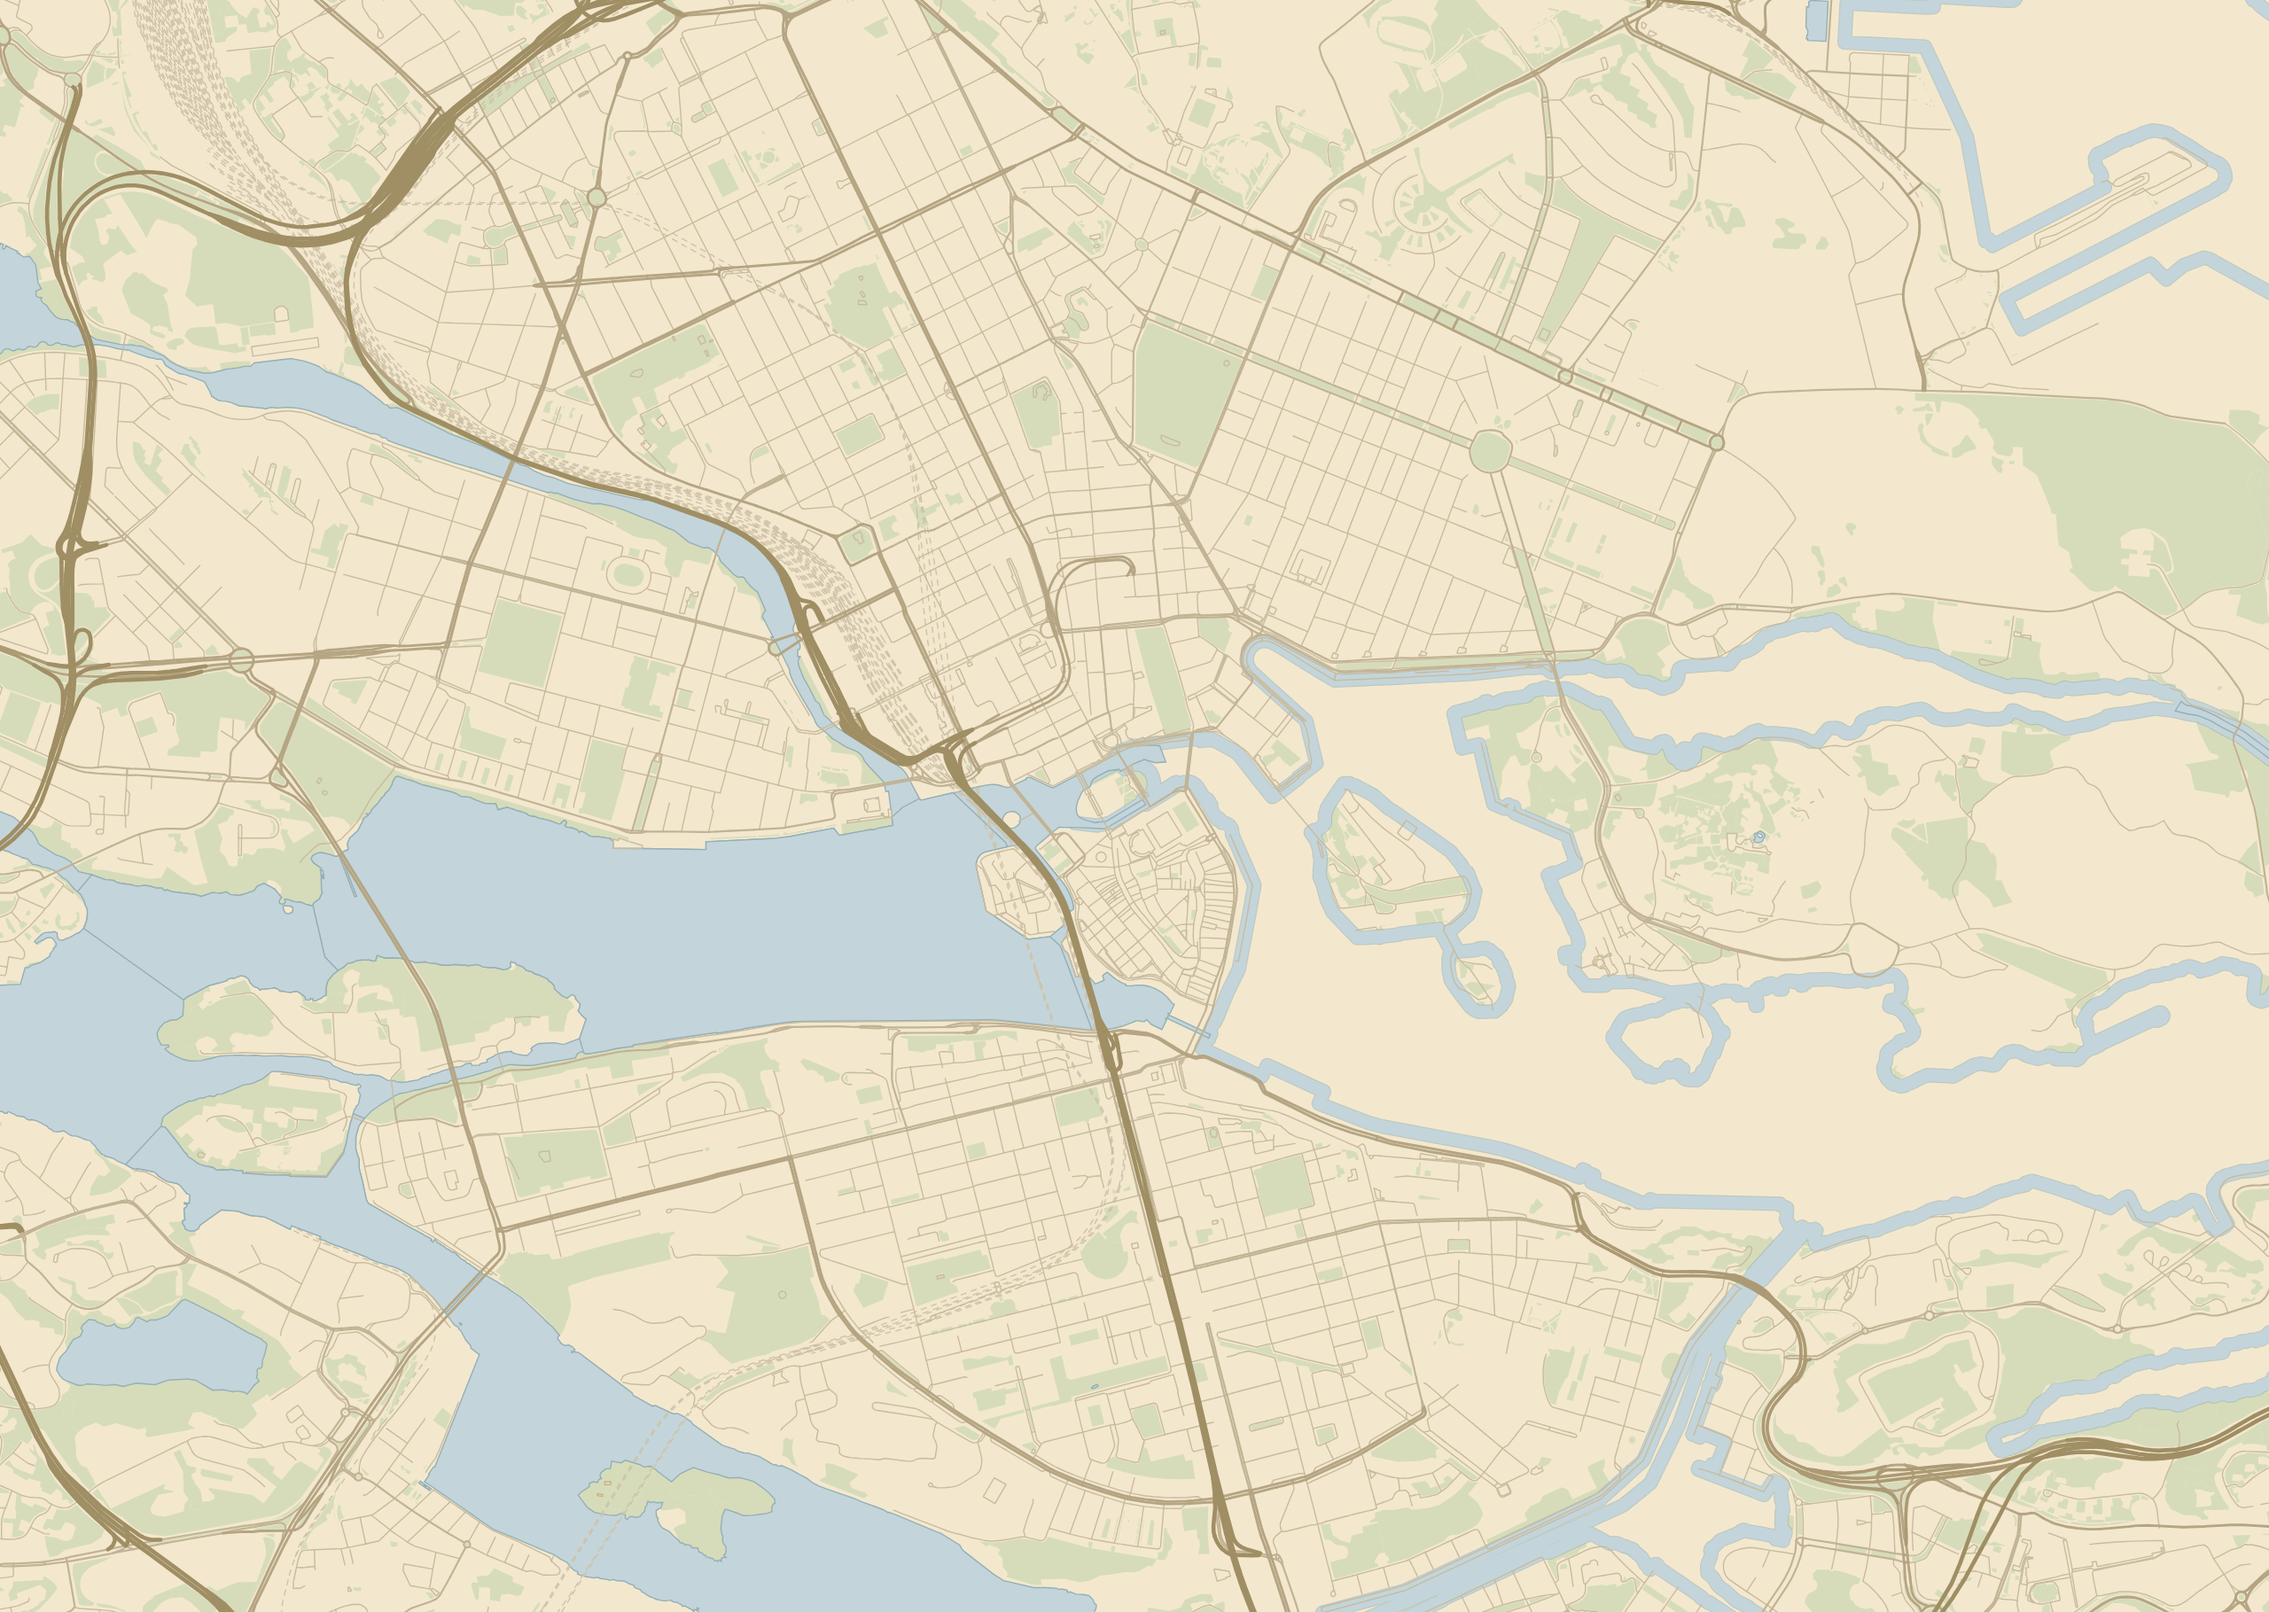
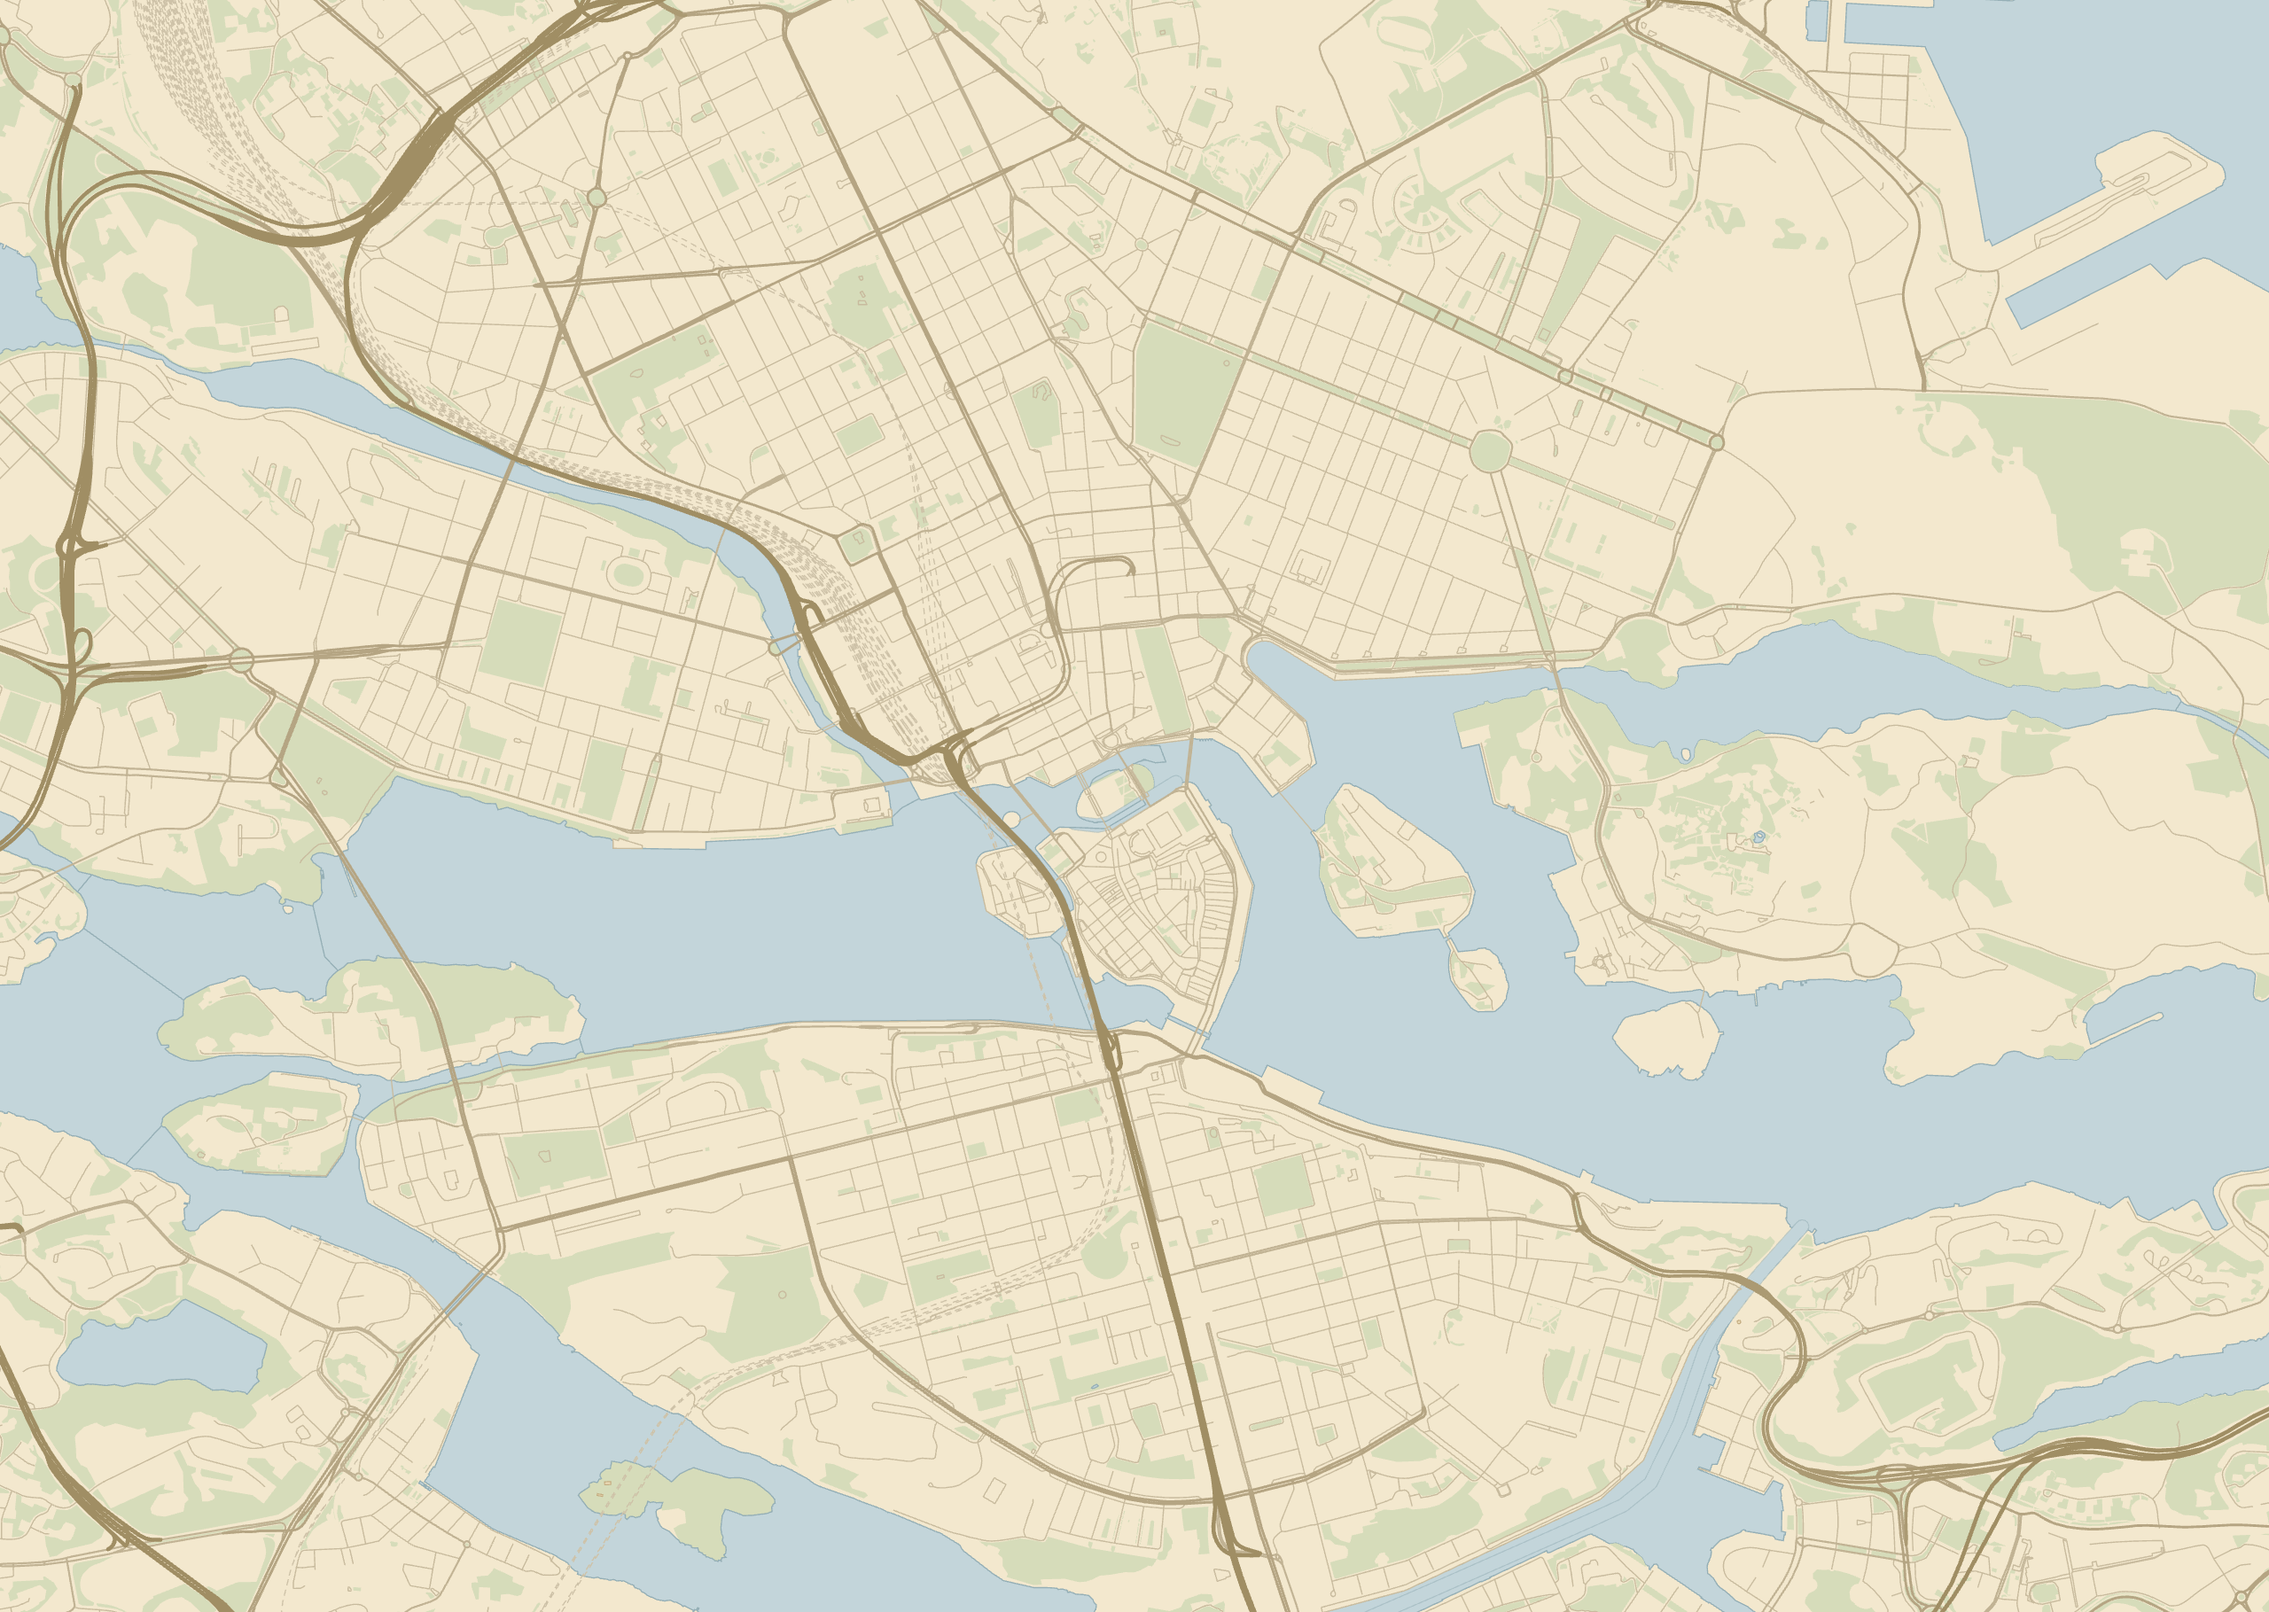
KESKEN Karttakorjaukset (Euroopan tarkistus 11.10.): Tukholman Saltsjö vedeksi (meri + meriHaku), nostot maalle, tarkistin lukee värikartan
Valmis: Tukholma (värikartta + paperi piirretty, pisteet tarkistettu), Jänissaari 1703 ja
Kolumbus 1484 maalle, Tukholman kaksi ympyräparia siirroin, tarkista-karttapisteet lukee
varikartan. KESKEN: Barcelonan ja Pietarin rajat muutettu, kuvat piirtämättä (Overpass-jono).

Changed region(s): [[0.5, 0.3694, 1.0, 1.0], [0.8125, 0.0, 1.0, 0.2155], [0.875, 0.8312, 1.0, 0.9236]]

diff --git a/js/packs/maakartat.js b/js/packs/maakartat.js
@@ -4451,7 +4451,8 @@ export const KAUPUNKIKARTAT = {
       // Juhana II:n hovi istui Paço da Ribeirassa nykyisen Kauppatorin
       // paikalla; hetken oma sivu on lehdessä, tämä on sen karttapaikka.
       {
-        nimi: 'Kolumbus 1484', tyyppi: 'henkilo', lat: 38.7066, lon: -9.1352,
+        // Rannalle Kauppatorin itäpuolelle (oli 38.7066/-9.1352 Tejon päällä; Karttaseppä 11.10.2026).
+        nimi: 'Kolumbus 1484', tyyppi: 'henkilo', lat: 38.708, lon: -9.1345,
         nosto: 'hetki-kolumbus-portugali-1484',
       },
     ],
@@ -4459,7 +4460,7 @@ export const KAUPUNKIKARTAT = {
   barcelona: {
     polku: 'assets/kartat/barcelona-keskusta.png',
     lahde: '© OpenStreetMap-tekijät (ODbL)',
-    rajat: { pohjoinen: 41.4085, etela: 41.37, lansi: 2.147, ita: 2.1984 },
+    rajat: { pohjoinen: 41.4105, etela: 41.37, lansi: 2.147, ita: 2.1984 }, // pohjoisreuna +0,002 (Roviran aukio irti reunasta, Karttaseppä 11.10.2026)
     /*
      * TEKSTIREMONTTI 20.8.2026 (erä E2; Raamattu, "TEKSTIEN
      * PAINOPISTE"): esittely kertoo, mitä alueella on ja miksi
@@ -6396,7 +6397,8 @@ export const KAUPUNKIKARTAT = {
        */
       {
         nimi: 'Vädersolstavlan', tyyppi: 'taide', lat: 59.3258, lon: 18.0703,
-        nosto: 'syvennys-tukholma-aurinkotaulu', nimiPuoli: 'vasen',
+        // Ympyrä irti Kuninkaanlinnasta (15 px; Karttaseppä 11.10.2026).
+        nosto: 'syvennys-tukholma-aurinkotaulu', nimiPuoli: 'vasen', siirto: { x: -16, y: 12 },
       },
       {
         nimi: 'Norrström', lat: 59.3286, lon: 18.0713, nosto: 'syvennys-tukholma-lohi',
@@ -6420,7 +6422,8 @@ export const KAUPUNKIKARTAT = {
       },
       {
         nimi: 'Naamiaislaukaus', tyyppi: 'henkilo', lat: 59.3297, lon: 18.0706,
-        nosto: 'skandaali-naamiaisten-laukaus',
+        // Ympyrä irti Norrströmistä (14 px; Karttaseppä 11.10.2026).
+        nosto: 'skandaali-naamiaisten-laukaus', nimiPuoli: 'vasen', siirto: { x: -16, y: -12 },
       },
       {
         nimi: 'Kreuger', tyyppi: 'henkilo', lat: 59.3318, lon: 18.0696,
@@ -7266,7 +7269,7 @@ export const KAUPUNKIKARTAT = {
   pietari: {
     polku: 'assets/kartat/pietari-keskusta.png',
     lahde: '© OpenStreetMap-tekijät (ODbL)',
-    rajat: { pohjoinen: 59.9545, etela: 59.9215, lansi: 30.284, ita: 30.347 },
+    rajat: { pohjoinen: 59.9545, etela: 59.9195, lansi: 30.284, ita: 30.347 }, // eteläreuna −0,002 (Mariinski irti mittakaavajanasta, Karttaseppä 11.10.2026)
     /*
      * TEKSTIREMONTTI 20.8.2026, ERÄ E5 (sama linjaus kuin Tallinnassa):
      * esittely kertoo kohteet, ei kanavien ja katujen viivastoja.
@@ -7345,7 +7348,8 @@ export const KAUPUNKIKARTAT = {
       // Jänissaaren länsipää; Pietari-Paavalin linnoituksen piste on saman saaren
       // keskellä.
       {
-        nimi: 'Jänissaari 1703', tyyppi: 'henkilo', lat: 59.9515, lon: 30.312,
+        // Saaren länsiosaan (oli 59.9515/30.312 salmessa; Karttaseppä 11.10.2026).
+        nimi: 'Jänissaari 1703', tyyppi: 'henkilo', lat: 59.9505, lon: 30.3135,
         nosto: 'hetki-pietari-perustus-1703', nimiPuoli: 'vasen',
       },
       // Pietarin yliopisto, Vasilinsaari.
